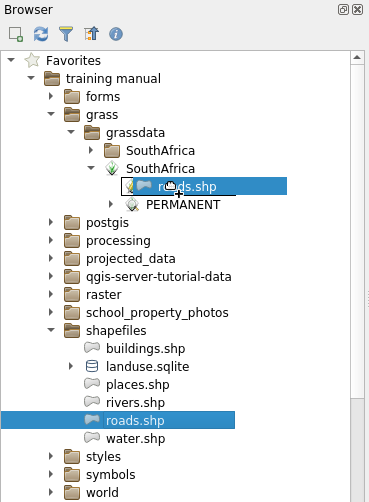
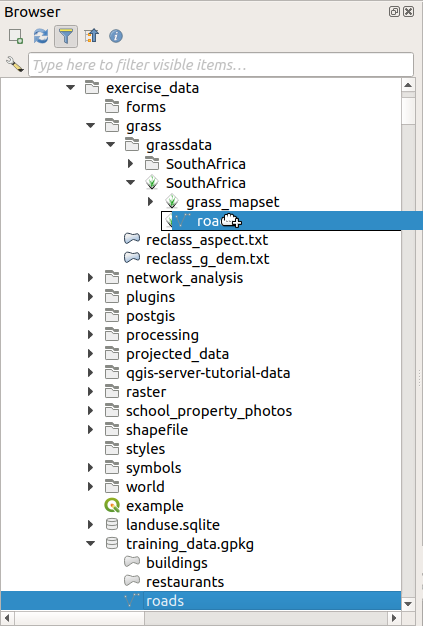
Havatv esrishapefileref (#4430)
* Fix reference (different Shapefile format dataset)

Inspired by #3439.

* Update to the grass browser import of the roads dataset

* Updated the grass section (removed reference to roads.shp), changed to GeoPackage

* And now the right version of the image...

Changed region(s): [[0.0, 0.0, 1.0, 1.0]]

diff --git a/source/docs/training_manual/basic_map/vector_data.rst b/source/docs/training_manual/basic_map/vector_data.rst
@@ -66,12 +66,12 @@ GIS-specific DBMSes (such as PostGIS) have extra functions, because they need to
 handle spatial data.
 
 The `GeoPackage <https://www.geopackage.org/>`_ open format is a container that
-allows you to store GIS data (layers) in a single file. Unlike the ESRI
-Shapefile format (e.g. the :file:`roads.shp` dataset you previously loaded that
-contains only roads vector data), a single GeoPackage file can contain various
-data (both vector and/or and raster data) in different coordinate reference systems,
-as well as tables without spatial information; all these features allow you to
-share data easily and avoid file duplication.
+allows you to store GIS data (layers) in a single file.
+Unlike the ESRI Shapefile format (e.g. the :file:`protected_areas.shp` dataset
+you loaded earlier), a single GeoPackage file can contain various data (both
+vector and raster data) in different coordinate reference systems, as well as
+tables without spatial information; all these features allow you to share data
+easily and avoid file duplication.
 
 In order to load a layer from a GeoPackage, you will first need to create the
 connection to it:

diff --git a/source/docs/training_manual/grass/grass_setup.rst b/source/docs/training_manual/grass/grass_setup.rst
@@ -160,11 +160,11 @@ you will see the |grassMapsetOpen| icon next to the Mapset that is opened.
 
 You can easily **drag and drop** layers from a folder to the GRASS Mapset.
 
-Let's try to import the :file:`roads.shp` layer into the ``grass_mapset`` Mapset
+Let's try to import the :file:`roads` layer into the ``grass_mapset`` Mapset
 of the ``SouthAfrica`` Location.
 
-Open the :file:`shapefile/` folder and simply drag the :file:`roads.shp` layer
-into the ``grass_mapset`` Mapset.
+Go to the Browser, and simply drag the :file:`roads` layer  from the
+:file:`training_data.gpkg` GeoPackage file into the ``grass_mapset`` Mapset.
 
 .. image:: img/grass_browser_import.png
    :align: center
